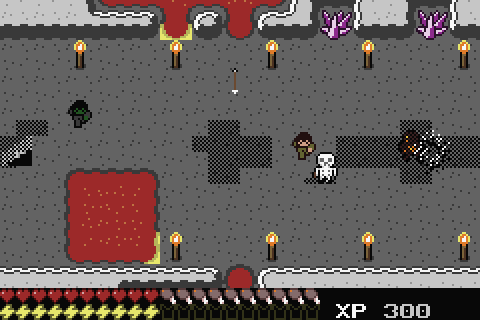
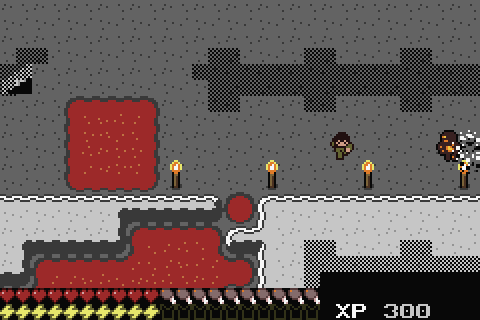
Torches: one tile type per ground, so shores and borders match
The first torch fix kept the ground in the data byte and made every torch
count as grass and sand. Neighbour rules are per tile type, so water next
to a torch on grass drew a sand-coloured shore. Torches are now three tile
types (TORCH_TILE on dirt, TORCH_GRASS_TILE, TORCH_SAND_TILE), each with
its ground's connects_to and leaving its ground when broken. IWRAM +16 B
(two tile_list entries).

diff --git a/src/tile.c b/src/tile.c
@@ -398,6 +398,12 @@ static const struct BlockBreak block_breaks[TILE_TYPES - FIRST_MOD_TILE] = {
     [TORCH_TILE - FIRST_MOD_TILE] = {
         BREAK_ANY, 0, 1, TORCH_ITEM, 1, 0, DIRT_TILE
     },
+    [TORCH_GRASS_TILE - FIRST_MOD_TILE] = {
+        BREAK_ANY, 0, 1, TORCH_ITEM, 1, 0, GRASS_TILE
+    },
+    [TORCH_SAND_TILE - FIRST_MOD_TILE] = {
+        BREAK_ANY, 0, 1, TORCH_ITEM, 1, 0, SAND_TILE
+    },
     [SPAWNER_TILE - FIRST_MOD_TILE] = {
         BREAK_PICK, 2, 150, DROP_XP, 5, 5, DIRT_TILE
     },
@@ -439,9 +445,7 @@ FINTERACT(block_interact) {
                 entity_add_item(level, xt, yt, b->drop, true);
         }
 
-        const u8 leaves = (tile == TORCH_TILE) ?
-            torch_ground_tile(LEVEL_GET_DATA(level, xt, yt)) : b->leaves;
-        LEVEL_SET_TILE(level, xt, yt, leaves, 0);
+        LEVEL_SET_TILE(level, xt, yt, b->leaves, 0);
     } else {
         LEVEL_SET_DATA(level, xt, yt, damage);
     }
@@ -711,13 +715,8 @@ const struct Tile tile_list[TILE_TYPES] = {
     // Mushroom
     { 0 },
 
-    // Torch: grass and sand around it draw no border towards it
-    {
-        .connects_to = {
-            .grass = true,
-            .sand  = true
-        }
-    },
+    // Torch (on dirt)
+    { 0 },
 
     // Spawner
     {
@@ -729,6 +728,20 @@ const struct Tile tile_list[TILE_TYPES] = {
     {
         .connects_to = {
             .ice = true
+        }
+    },
+
+    // Torch on grass: joins grass like grass does
+    {
+        .connects_to = {
+            .grass = true
+        }
+    },
+
+    // Torch on sand: joins sand like sand does
+    {
+        .connects_to = {
+            .sand = true
         }
     }
 };
@@ -770,5 +783,7 @@ const tile_interact_fn tile_interact_list[TILE_TYPES] = {
     block_interact,        // Mushroom
     block_interact,        // Torch
     block_interact,        // Spawner
-    block_interact         // Ice
+    block_interact,        // Ice
+    block_interact,        // Torch on grass
+    block_interact         // Torch on sand
 };

diff --git a/src/mod-tiles.c b/src/mod-tiles.c
@@ -35,9 +35,11 @@ static const u8 mod_tile_palettes[TILE_TYPES - FIRST_MOD_TILE] = {
     1,  // melon
     0,  // sugar cane
     10, // mushroom
-    3,  // torch (on dirt; see mod_tile_draw)
+    3,  // torch (on dirt)
     7,  // spawner
-    6   // ice
+    6,  // ice
+    5,  // torch on grass
+    5   // torch on sand
 };
 
 // Planks, stone bricks and clay bricks join their own kind like rock:
@@ -91,20 +93,11 @@ void mod_tile_draw(struct Level *level, u32 xt, u32 yt, u16 tiles[4]) {
         return;
     }
 
-    // a torch stands on the ground it was placed on (data byte): dirt
-    // is cell 33, grass cell 51, sand cell 52 (palette 5)
-    if(tile == TORCH_TILE) {
-        const u32 ground = LEVEL_GET_DATA(level, xt, yt);
-        if(ground == TORCH_ON_GRASS || ground == TORCH_ON_SAND) {
-            const u16 base = ((50 + ground) * 4) | 5 << 12;
-            for(u32 i = 0; i < 4; i++)
-                tiles[i] = base + i;
-            return;
-        }
-    }
-
-    // every other mod tile is a full 16x16 cell: cell = tile ID
-    const u16 base = (tile * 4) | palette;
+    // every other mod tile is a full 16x16 cell: cell = tile ID, except
+    // the torches on grass and sand (cells 51 and 52; 36-50 are walls)
+    const u32 cell = (tile == TORCH_GRASS_TILE) ? 51 :
+                     (tile == TORCH_SAND_TILE)  ? 52 : tile;
+    const u16 base = (cell * 4) | palette;
     tiles[0] = base;
     tiles[1] = base + 1;
     tiles[2] = base + 2;
@@ -225,7 +218,7 @@ void mod_tile_draw_torch_light(struct Level *level) {
 
     for(i32 y = -3; y < 10 + 3; y++) {
         for(i32 x = -3; x < 16 + 3; x++) {
-            if(LEVEL_GET_TILE(level, x0 + x, y0 + y) != TORCH_TILE)
+            if(!is_torch(LEVEL_GET_TILE(level, x0 + x, y0 + y)))
                 continue;
 
             const i32 xr = x * 2 + 1;

diff --git a/include/tile.h b/include/tile.h
@@ -21,7 +21,7 @@
 #include "level.h"
 #include "item.h"
 
-#define TILE_TYPES (36)
+#define TILE_TYPES (38)
 
 #define GRASS_TILE          (0)
 #define ROCK_TILE           (1)
@@ -63,26 +63,23 @@
 #define SPAWNER_TILE        (34)
 #define ICE_TILE            (35)
 
-// A torch breaks in one hit, so its data byte never holds damage: it keeps
-// the ground the torch was placed on, drawn under it and left when broken.
-#define TORCH_ON_DIRT  (0)
-#define TORCH_ON_GRASS (1)
-#define TORCH_ON_SAND  (2)
+// A torch looks and joins like the ground it was placed on, so there is one
+// tile type per ground: TORCH_TILE on dirt (and farmland, wheat), and these.
+// Neighbour rules (grass borders, water shores) come from the tile type.
+#define TORCH_GRASS_TILE    (36)
+#define TORCH_SAND_TILE     (37)
 
-INLINE u8 torch_ground_of(u8 tile) {
-    if(tile == GRASS_TILE || tile == FLOWER_TILE)
-        return TORCH_ON_GRASS;
-    if(tile == SAND_TILE)
-        return TORCH_ON_SAND;
-    return TORCH_ON_DIRT;
+INLINE u8 torch_tile_on(u8 ground) {
+    if(ground == GRASS_TILE || ground == FLOWER_TILE)
+        return TORCH_GRASS_TILE;
+    if(ground == SAND_TILE)
+        return TORCH_SAND_TILE;
+    return TORCH_TILE;
 }
 
-INLINE u8 torch_ground_tile(u8 ground) {
-    if(ground == TORCH_ON_GRASS)
-        return GRASS_TILE;
-    if(ground == TORCH_ON_SAND)
-        return SAND_TILE;
-    return DIRT_TILE;
+INLINE bool is_torch(u8 tile) {
+    return tile == TORCH_TILE || tile == TORCH_GRASS_TILE ||
+           tile == TORCH_SAND_TILE;
 }
 
 // Kept small: this table lives in IWRAM.

diff --git a/tools/test/smoke.py b/tools/test/smoke.py
@@ -31,7 +31,7 @@ LEVEL_SIZE = LEVEL_W * LEVEL_W
 LEVEL_BYTES = 2 * LEVEL_SIZE + 255 * 14
 ENTITIES = 2 * LEVEL_SIZE
 GRASS, ROCK, FLOWER, FARMLAND, WHEAT = 0, 1, 3, 11, 12
-PLANKS_TILE, TORCH_TILE = 24, 33
+PLANKS_TILE, TORCH_GRASS_TILE = 24, 36
 PLANKS, TORCH, SWORD, TABLE, BED, WORKBENCH = 33, 39, 28, 72, 66, 21
 ITEM_ENTITY, XP_ORB_ENTITY = 10, 24
 IRON_ORE, PICK, GOLD_ARMOR = 18, 30, 70
@@ -274,7 +274,7 @@ EXPECT_PLAY = {
     'planks_flower.tile': PLANKS_TILE, 'planks_flower.count': 4,
     'planks_farmland.tile': PLANKS_TILE, 'planks_farmland.count': 4,
     'planks_wheat.tile': PLANKS_TILE, 'planks_wheat.count': 4,
-    'torch_flower.tile': TORCH_TILE, 'torch_flower.count': 4,
+    'torch_flower.tile': TORCH_GRASS_TILE, 'torch_flower.count': 4,
     'rock.message': 'CANT PLACE', 'rock.tile': ROCK,
     'ench_planks.message': 'NEED TOOL',
     'ench_noxp.message': 'NEED 30 XP', 'ench_noxp.level': 0,

diff --git a/tools/test/screenshots.py b/tools/test/screenshots.py
@@ -139,8 +139,7 @@ def build_scene():
         for dy in range(1, 5):
             edge = dx in (0, 4) or dy in (1, 4)
             house.append(T(dx, dy, 25 if edge else 0))
-    house += [T(2, 1, 27), T(2, 2, 33)]  # door, torch inside
-    house.append(f'set {smoke.mem("$lv + 12544 + $px + 2 + ($py + 2) * 112")} = 1')  # torch on grass
+    house += [T(2, 1, 27), T(2, 2, 36)]  # door, torch on the grass floor
     # away from the animals the debug kit puts at y -3 and +3 (x -1..3),
     # so none wanders against a wall before the shot
     house += [T(dx, -3, 24) for dx in range(-8, -4)]  # planks wall

diff --git a/src/entity/player.c b/src/entity/player.c
@@ -323,8 +323,9 @@ static inline void player_place(struct Level *level, struct entity_Data *data) {
         tile_interact_list[tile](level, xt, yt, &hand);
     }
 
-    const u8 tile_data = (item->placed_tile == TORCH_TILE) ? torch_ground_of(tile) : 0;
-    LEVEL_SET_TILE(level, xt, yt, item->placed_tile, tile_data);
+    const u8 placed = (item->placed_tile == TORCH_TILE) ? torch_tile_on(tile)
+                                                        : item->placed_tile;
+    LEVEL_SET_TILE(level, xt, yt, placed, 0);
 
     player_active_item.count--;
     if(player_active_item.count == 0)

diff --git a/src/scene/map.c b/src/scene/map.c
@@ -76,6 +76,7 @@ static inline u32 tile_color(u32 tile) {
         case PUMPKIN_TILE:
         case MELON_TILE:
         case SUGAR_CANE_TILE:
+        case TORCH_GRASS_TILE:
             return COLOR_GRASS;
 
         case LIQUID_TILE:
@@ -86,6 +87,7 @@ static inline u32 tile_color(u32 tile) {
         case SAND_TILE:
         case CACTUS_TILE:
         case CACTUS_SAPLING_TILE:
+        case TORCH_SAND_TILE:
             return COLOR_SAND;
 
         case TREE_TILE:

diff --git a/CLAUDE.md b/CLAUDE.md
@@ -60,8 +60,8 @@ which contains none of this code. `src/debug-kit.c`, active only with `-DDEBUG_K
 ## Hard constraints (measured from the ELF, GCC 14.2.Rel1, 26.10.2026, all content implemented)
 - **EWRAM 97.8 % full** (256 480 B used, ~5 660 B free): 5 levels 143 290 B, collision table
   `level_solid_entities` 100 352 B, 32 chests 12 352 B. Do NOT grow world size, level count, chest count or entity cap.
-- **IWRAM 92.8 %** (30 420 B, 28.10.2026). Data ends at `0x030076D4`, user stack starts at `0x03007F00` (top
-  256 B reserved for IRQ stacks) -> **~2 090 B of stack**, no overflow check (the debug build shows the
+- **IWRAM 92.9 %** (30 436 B, 30.10.2026). Data ends at `0x030076E4`, user stack starts at `0x03007F00` (top
+  256 B reserved for IRQ stacks) -> **~2 070 B of stack**, no overflow check (the debug build shows the
   stack high-water mark). Upstream HEAD was 97.9 % / 436 B:
   the fork freed IWRAM by moving `player_attack`/`player_use` to ROM and shrinking `struct Tile` to 8 B
   (`interact` pointers now live in the ROM table `tile_interact_list`).
@@ -70,10 +70,11 @@ which contains none of this code. `src/debug-kit.c`, active only with `-DDEBUG_K
 - `level_tick`/`level_draw` are `IWRAM_SECTION` and `tick/tiles.c` + `draw/tiles.c` are `#include`d into
   level.c as `static inline`, so every tile `case` there lands in IWRAM. Mod tiles go through the `default:`
   branch into `src/mod-tiles.c` (ROM). Largest IWRAM users: `level_draw` 10.8 KB, `game_draw` 1.6 KB.
-- ROM: 175 896 B (upstream 133 456 B).
+- ROM: 175 864 B (upstream 133 456 B).
 - Tile = 1 B type + 1 B data. Data byte holds damage/growth/etc., so a placed block can't remember what was
-  under it -> broken placed blocks become dirt (plants -> grass). Exception: torches break in one hit, so
-  their data byte keeps the ground (`TORCH_ON_*` in tile.h) for drawing and for what they leave.
+  under it -> broken placed blocks become dirt (plants -> grass). Exception: torches are three tile types by
+  ground (`TORCH_TILE`, `TORCH_GRASS_TILE` 36, `TORCH_SAND_TILE` 37; `torch_tile_on`/`is_torch` in tile.h),
+  because neighbour rules (`connects_to`) are per tile type. Mod tile IDs 36+ don't map to cells 36+.
 - Entity state: 8 bytes (`data[8]`); mobs get 2 bytes after `struct mob_Data`. Limit 255 entities per level
   shared by mobs, items, particles. Item types go up to 72: bitfields holding one need 7 bits.
 - **Saves:** 128 KB Flash (`BACKUP_FLASH_128KB`), save version byte at 0x1C (`SAVE_VERSION` in storage.c, now 2

diff --git a/docs/art-pack.md b/docs/art-pack.md
@@ -38,9 +38,9 @@ Always draw with the palette row listed here, or colours come out wrong.
 | 51 | 204-207 | 5 | torch on grass |
 | 52 | 208-211 | 5 | torch on sand |
 
-A torch's tile data byte keeps the ground it was placed on (0 dirt, 1 grass, 2 sand): `mod_tile_draw`
-picks cell 33, 51 or 52, and breaking it leaves that ground. Grass and sand treat a torch as their own kind,
-so they draw no border around it.
+A torch is one of three tile types, by the ground it was placed on: `TORCH_TILE` (33, on dirt),
+`TORCH_GRASS_TILE` (36, drawn from cell 51) and `TORCH_SAND_TILE` (37, cell 52). Each has its ground's
+neighbour rules (grass/sand borders, water shores) and leaves its ground when broken.
 
 Placed planks, stone bricks and clay bricks join their own kind like rock (square edges): white rim on
 exposed top/left sides, a dark south face, transparent ground outside (shows the level's dirt colour).

diff --git a/CHANGELOG.md b/CHANGELOG.md
@@ -4,7 +4,8 @@
 ### Fixed
 - Torches show the ground they stand on (grass, sand, or the level's dirt
   colour underground) instead of a brown square with a border around it,
-  and leave that ground when broken.
+  join it like that ground does (borders, water shores), and leave that
+  ground when broken.
 - Skeletons no longer flicker and slide while aiming: they stand still facing
   the player, and back off (facing where they walk) when the player gets close.
 
